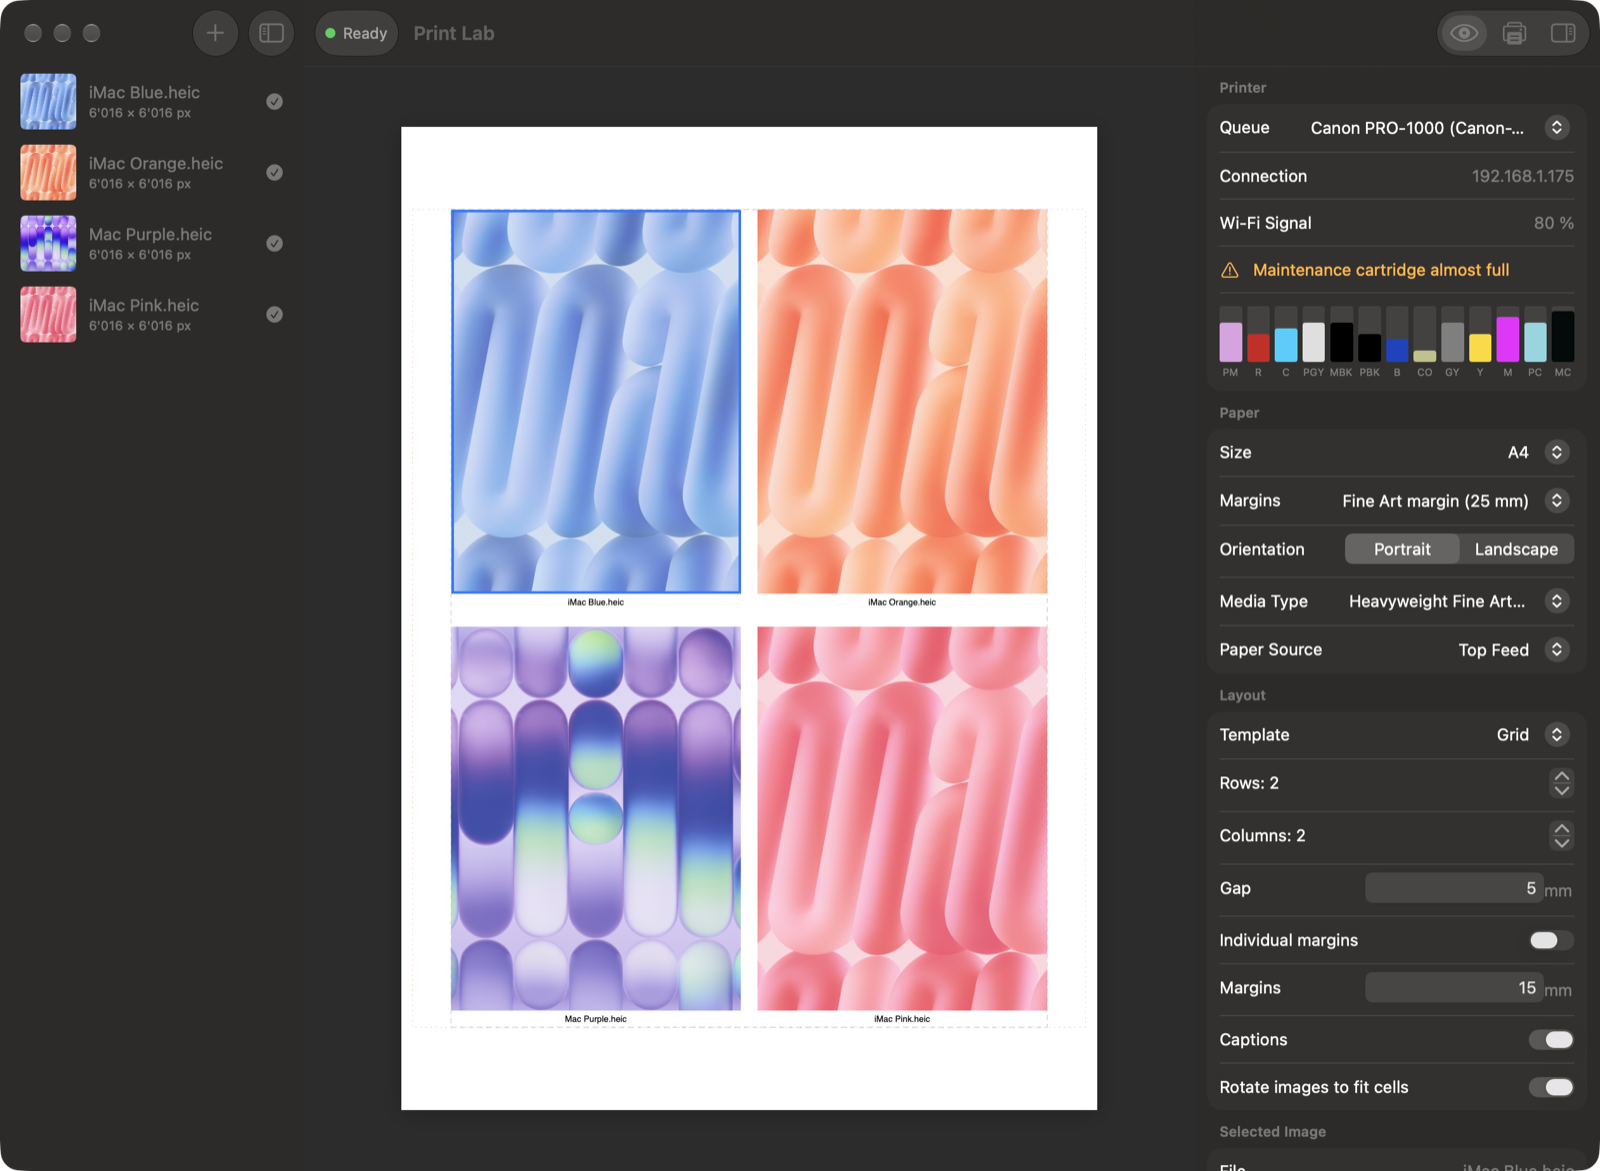
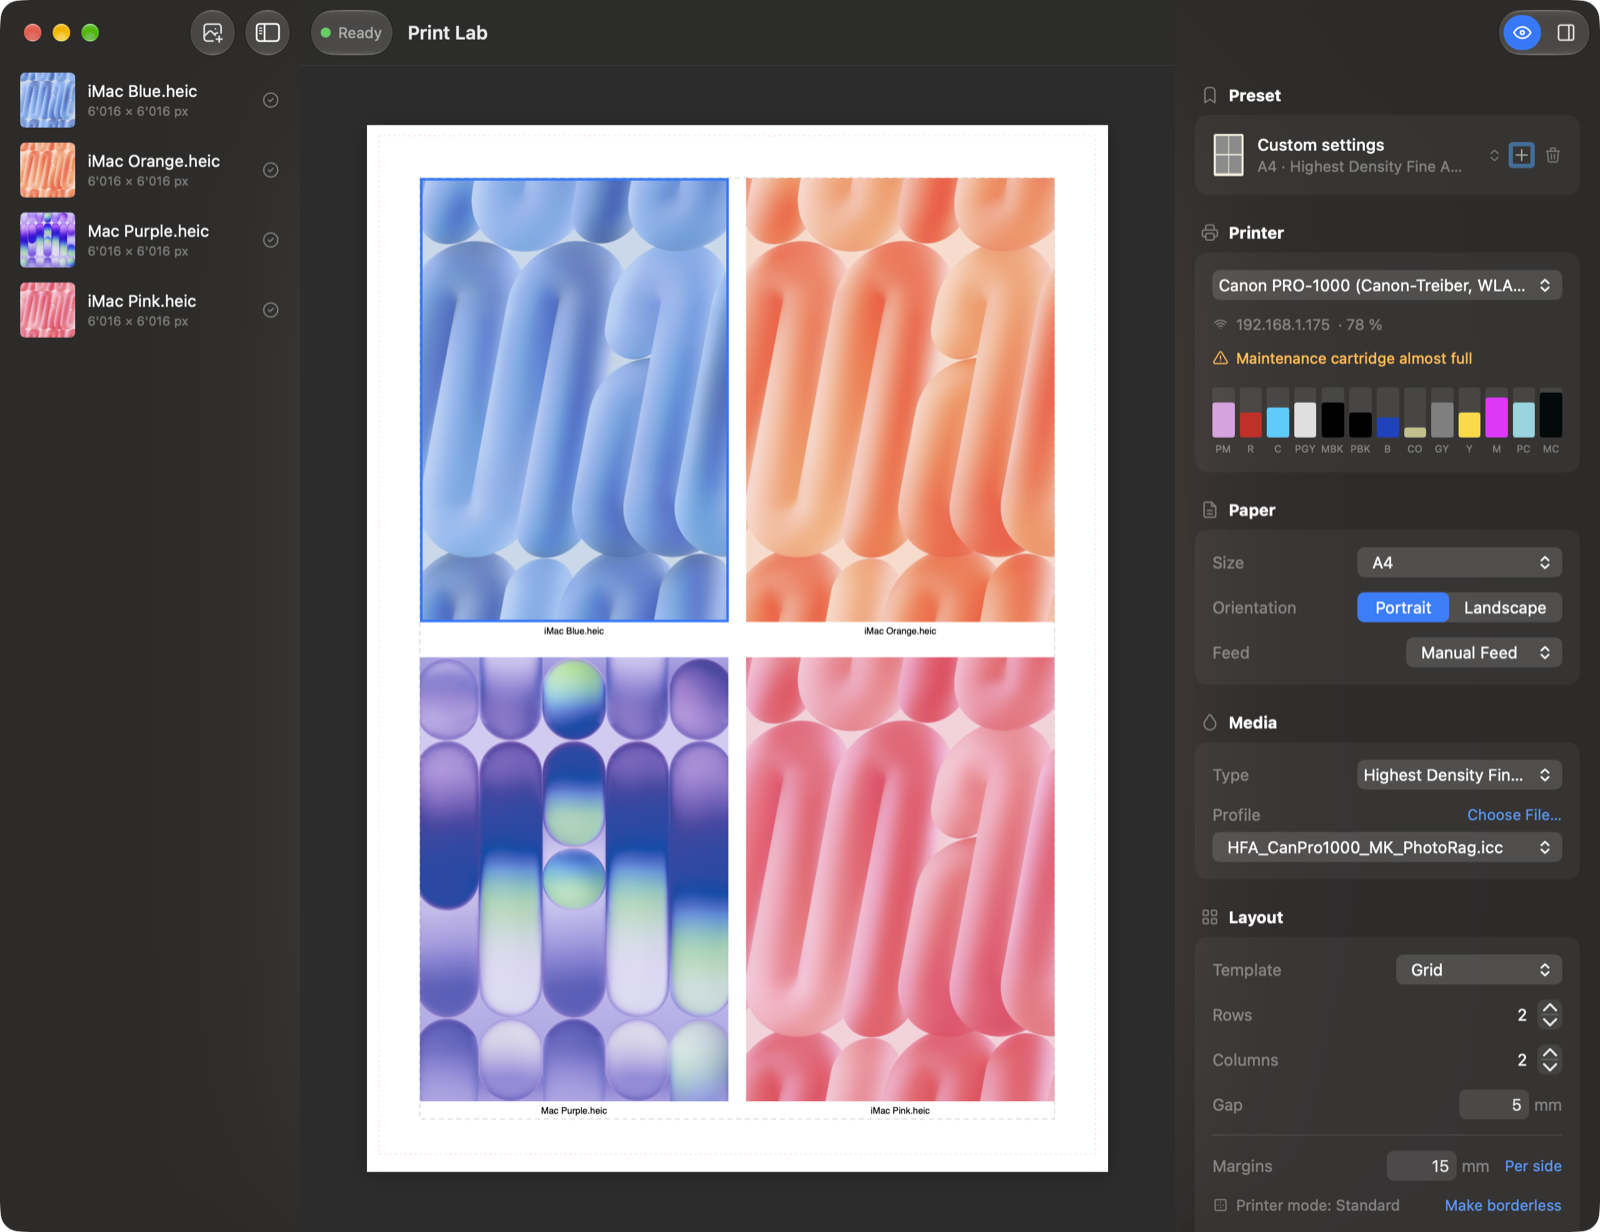
README: new screenshot, Canon printers in general, tested on the PRO-1000

diff --git a/README.md b/README.md
@@ -2,7 +2,7 @@
 
 # Print Lab
 
-A macOS app for printing photos on the Canon imagePROGRAF PRO-1000. An open alternative to Canon's Professional Print & Layout.
+A macOS app for printing photos on Canon photo printers, tested on the imagePROGRAF PRO-1000. An open alternative to Canon's Professional Print & Layout.
 
 ![Print Lab with a 2×2 grid on A4 Fine Art paper](docs/screenshot.png)
 
@@ -20,7 +20,9 @@ Print Lab is not affiliated with Canon.
 brew install yannickpulver/tap/print-lab
 ```
 
-Print Lab needs Canon's IJ driver for the PRO-1000 and the printer added in System Settings → Printers & Scanners.
+Print Lab needs Canon's IJ driver for your printer and the printer added in System Settings → Printers & Scanners.
+
+Print Lab is tested on the PRO-1000. Other Canon printers with the IJ driver (e.g. PRO-300, PRO-200) show up too and get paper sizes, media types and quality from their own driver. Canon's paper profiles are matched by their PRO-1000 file names so far; with another printer, choose the profile in the Media card.
 
 ## How colors flow
 
@@ -49,7 +51,7 @@ cat ~/Library/Application\ Support/PrintLab/state.json
 ## Requirements
 
 - macOS 26
-- Canon IJ driver for the PRO-1000 installed, with a CUPS queue that uses it (the app lists every queue whose PPD has `CNIJMediaType`)
+- Canon IJ driver installed, with a CUPS queue that uses it (the app lists every queue whose PPD has `CNIJMediaType`)
 - Xcode 27, [Tuist](https://tuist.dev)
 
 ## Build
